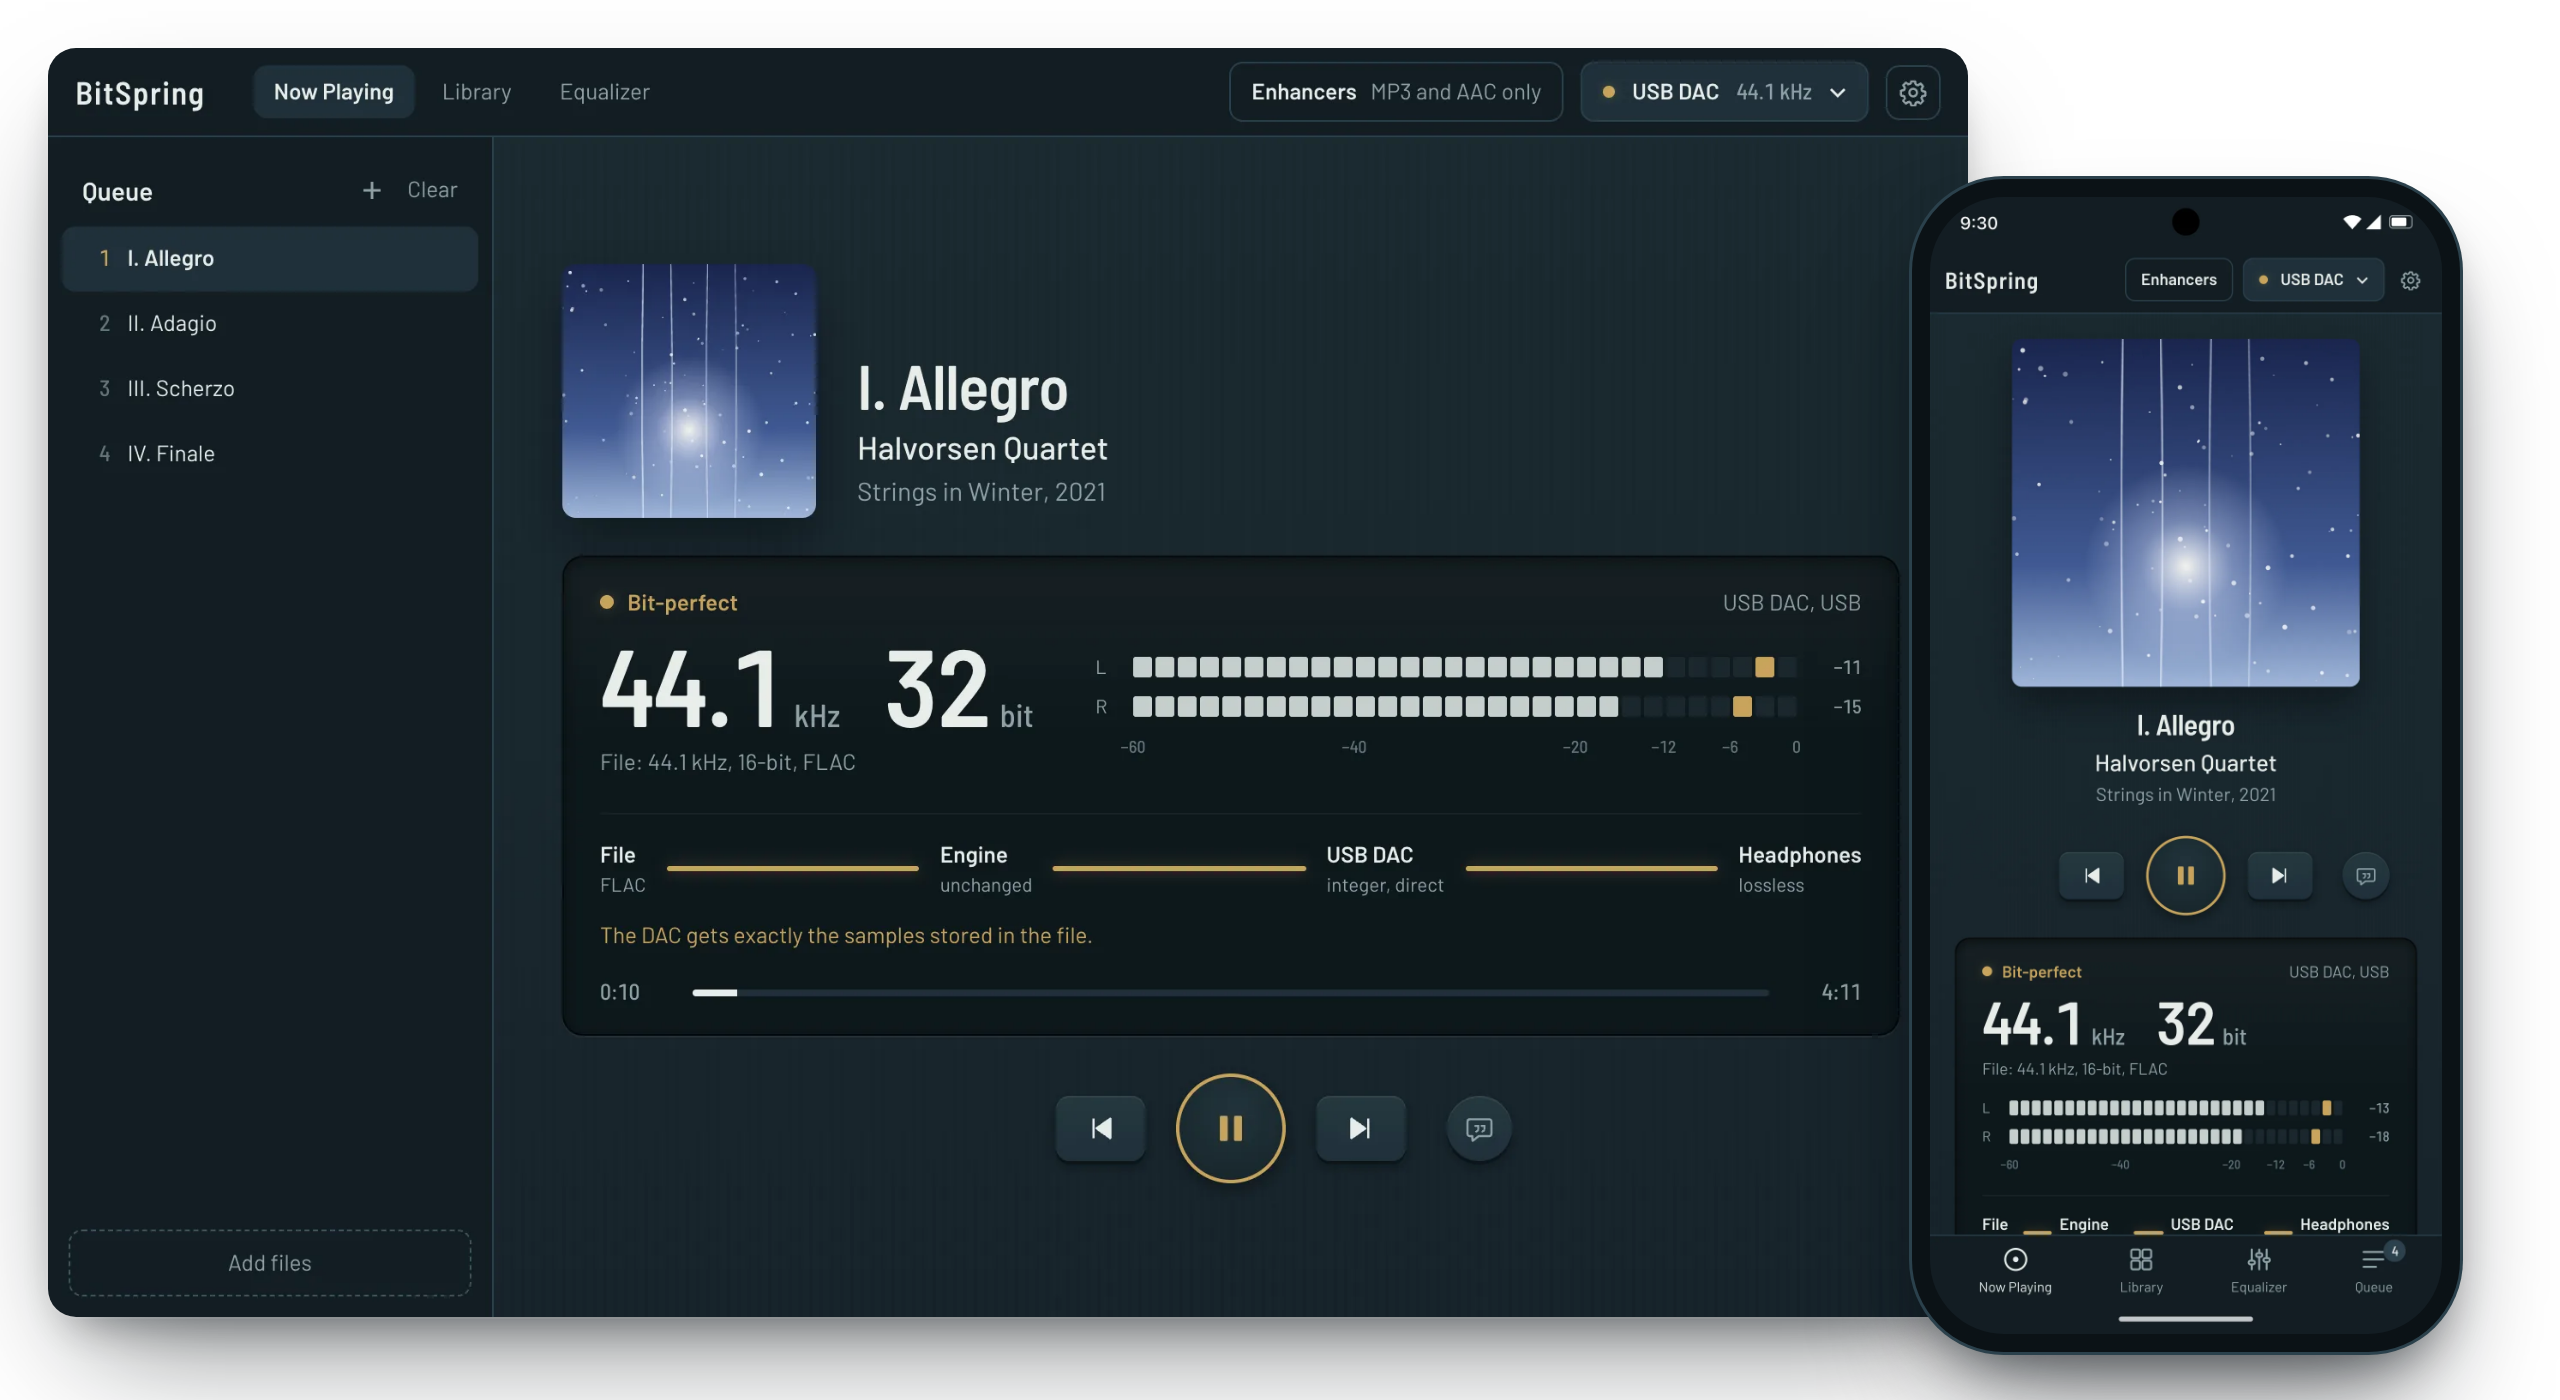
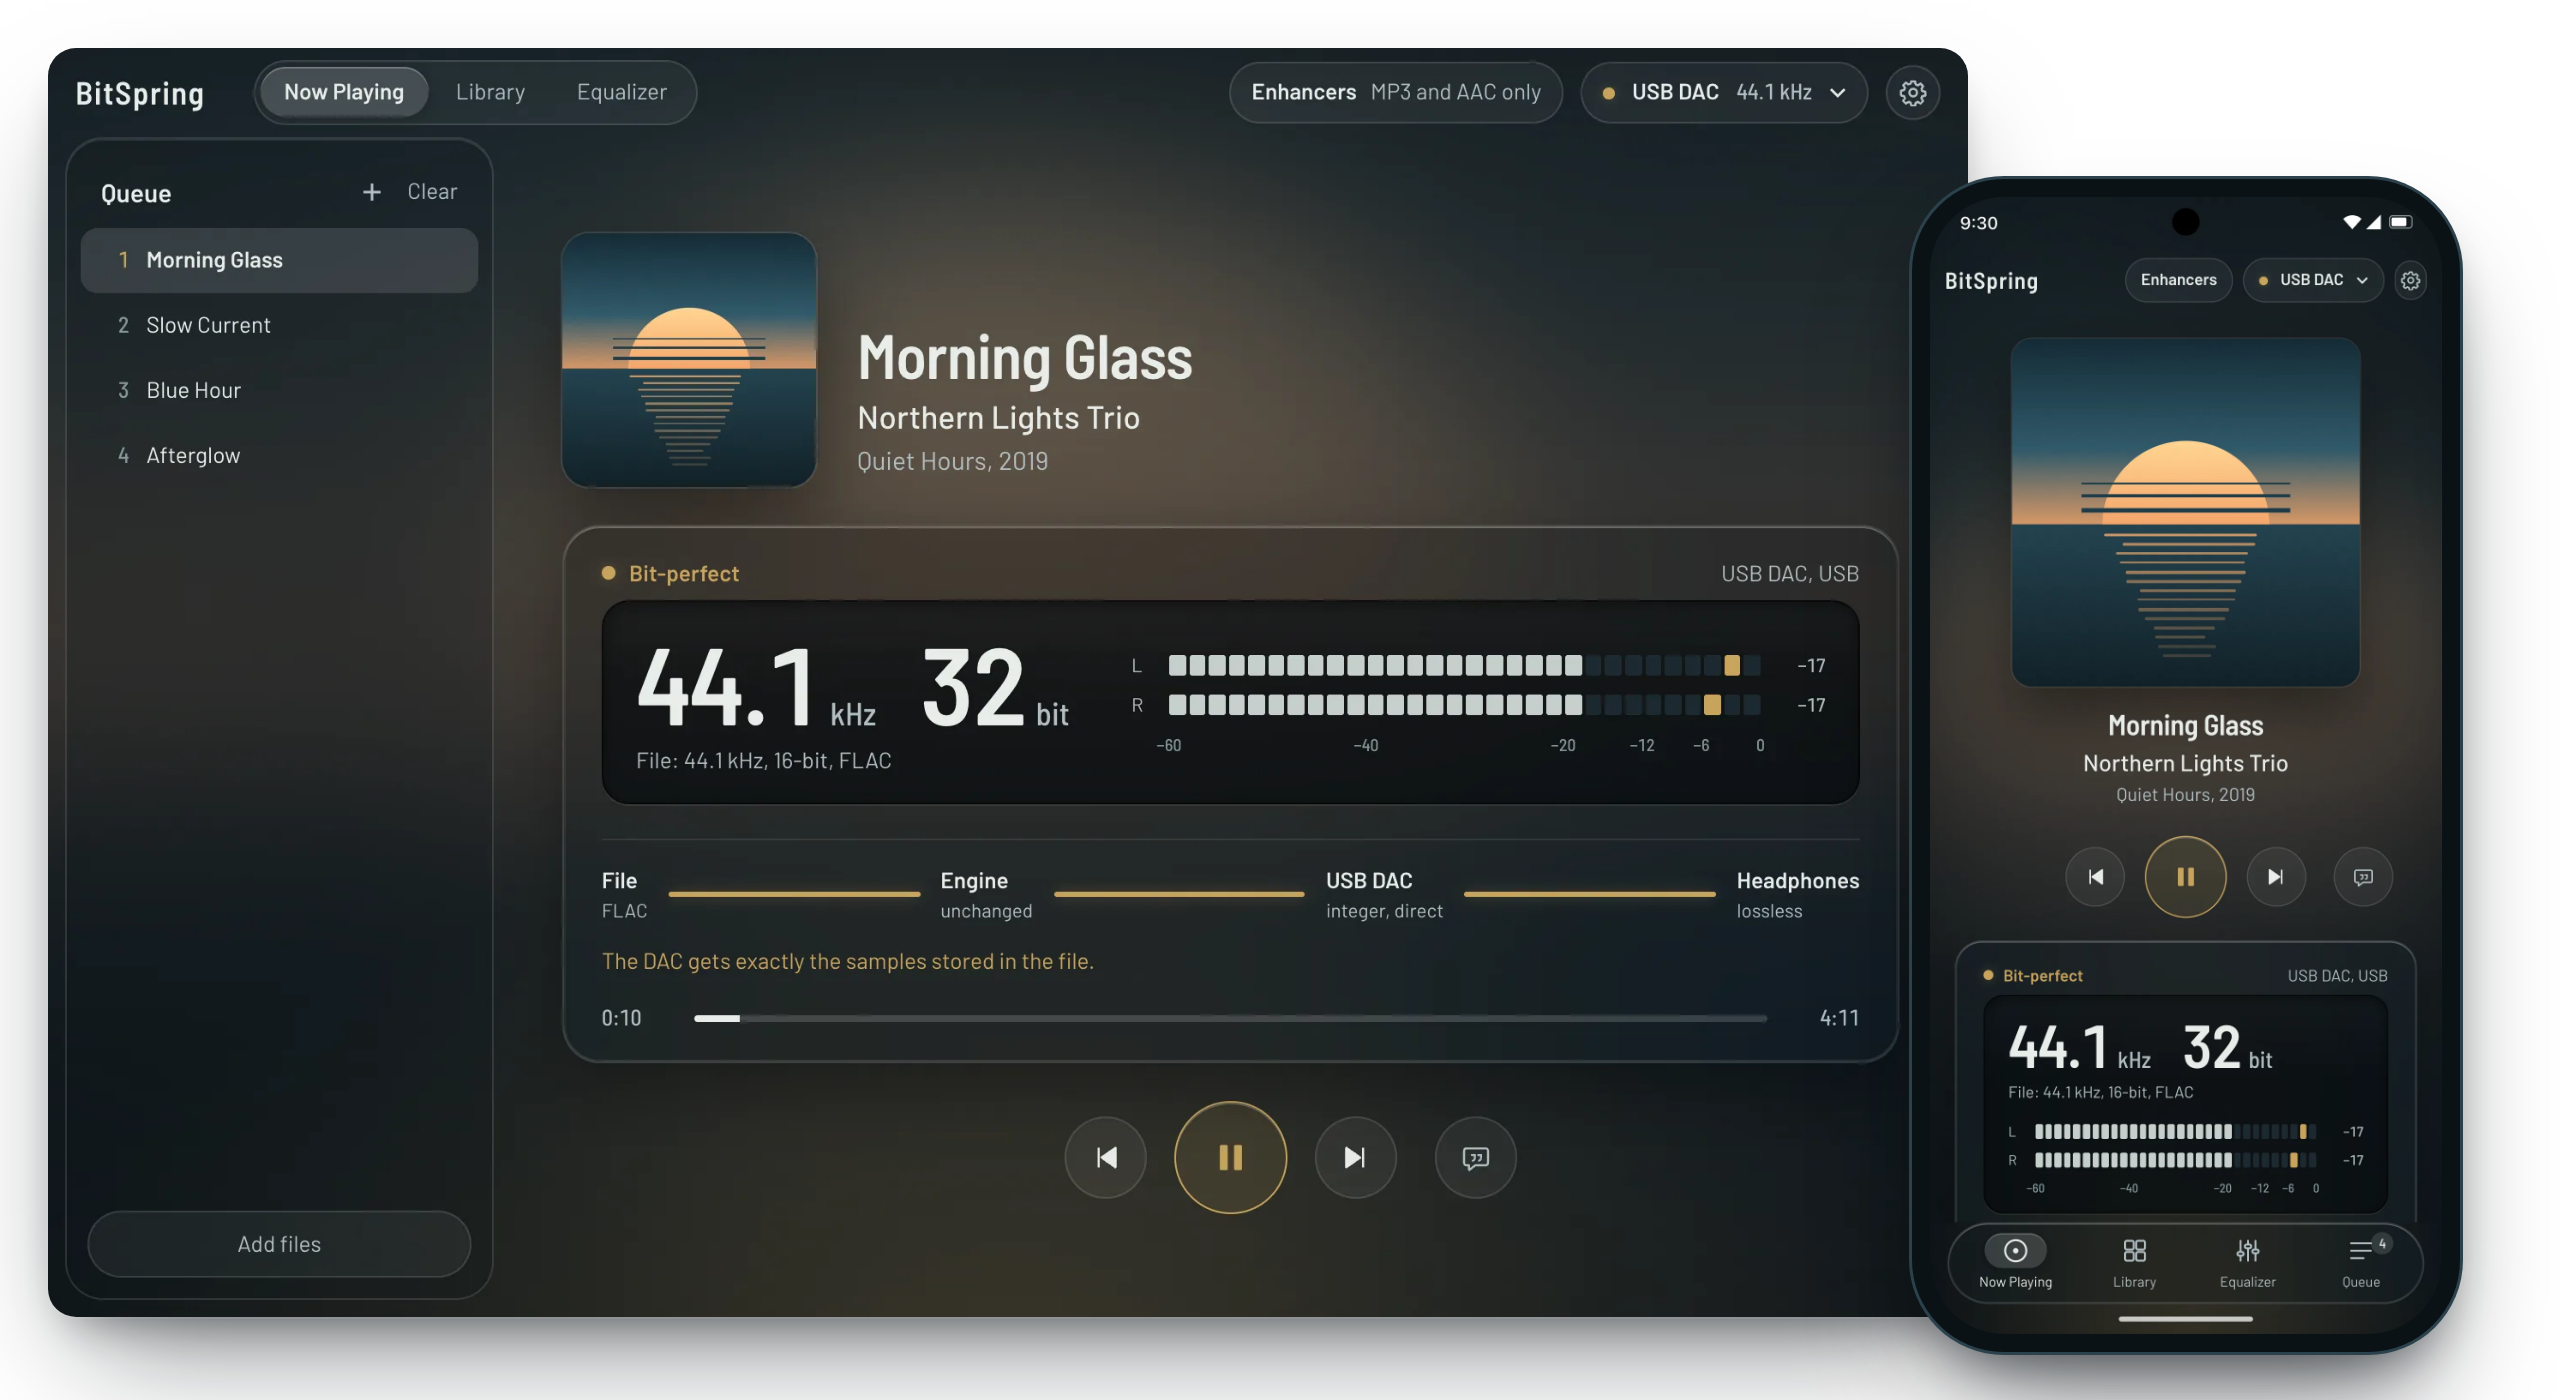
README: glass screenshots
The hero and the gallery now show the glass look, the app's default, with Quiet Hours playing:
its cover gives the glass backdrop colour. The screens live in .github/readme/screens, so the
website's screenshots stay as they are.

diff --git a/.github/readme/src/hero.html b/.github/readme/src/hero.html
@@ -1,6 +1,6 @@
 <!doctype html>
 <!-- README hero: the desktop window with the Android phone in front of it, on a transparent
-     background so it sits on both GitHub themes. Uses the website's own screenshots.
+     background so it sits on both GitHub themes. Uses the glass screenshots in ../screens (Quiet Hours playing: its cover makes the glass backdrop).
      Rendered to ../hero.png by render.sh at 1280x700, 2x. -->
 <html>
 <head>
@@ -39,8 +39,8 @@
 </head>
 <body>
 <div class="stage">
-  <div class="desktop"><img src="../../../apps/website/public/screens/player-classic.webp" alt="" /></div>
-  <div class="phone"><img src="../../../apps/website/public/screens/player-classic-android.webp" alt="" /></div>
+  <div class="desktop"><img src="../screens/player-glass.webp" alt="" /></div>
+  <div class="phone"><img src="../screens/player-glass-android.webp" alt="" /></div>
 </div>
 </body>
 </html>

diff --git a/README.md b/README.md
@@ -43,8 +43,8 @@ them, and off means bit-perfect again.
 
 <table>
   <tr>
-    <td width="50%"><img src="apps/website/public/screens/library-classic.webp" alt="Library: albums with their bit depth and sample rate"></td>
-    <td width="50%"><img src="apps/website/public/screens/eq-classic.webp" alt="Equalizer: a six-band parametric EQ curve for planar headphones"></td>
+    <td width="50%"><img src=".github/readme/screens/library-glass.webp" alt="Library: albums with their bit depth and sample rate"></td>
+    <td width="50%"><img src=".github/readme/screens/eq-glass.webp" alt="Equalizer: a six-band parametric EQ curve for planar headphones"></td>
   </tr>
   <tr>
     <td align="center">Library, with each album's bit depth and sample rate</td>
